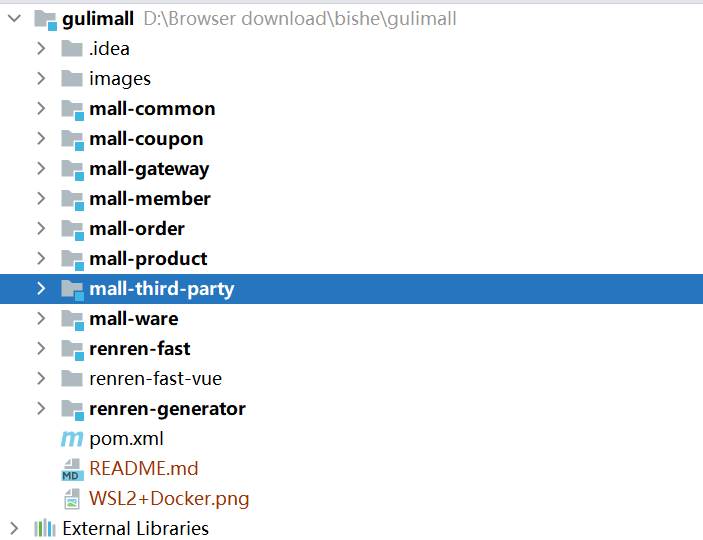
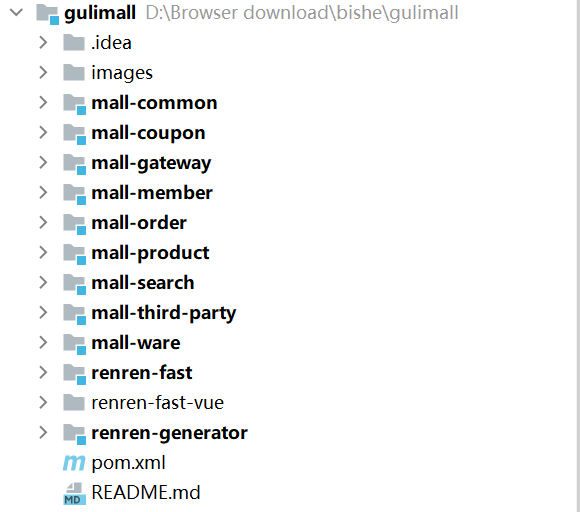
feat:项目介绍

Changed region(s): [[0.0, 0.0, 1.0, 1.0]]

diff --git a/README.md b/README.md
@@ -2,18 +2,23 @@
 
   由于Centos7大部分停止维护下架问题，本次我才用WSL2+Ubuntu20.04.6LTS，同理在Ubuntu下安装Docker管理mysql5.7和redis。
 
+<h2>商城架构图：</h2>
+
+![项目架构图](./images/项目架构图.png)
+
 <h2>环境信息:</h2>
 
 ![WSL2+Ubuntu](./images/WSL2+Ubuntu.png)
 
 <h4>本地可视化连接mysql和redis时输入的主机IP地址信息  192.168.2.44</h4>
 
-| 软件名 | 版本号 | 描述信息           |
-| ------ | ------ | ------------------ |
-| nacos  | 1.1.3  | 微服务的注册和发现 |
-| mysql  | 5.7    | 数据库             |
-| redis  | ^      | 缓存               |
-|        |        |                    |
+| 软件名        | 版本号 | 描述信息                        |
+| ------------- | ------ | ------------------------------- |
+| nacos         | 1.1.3  | 微服务的注册和发现              |
+| mysql         | 5.7    | 数据库                          |
+| redis         | ^      | 缓存                            |
+| Kibana        | 7.4.2  | Elasticsearch操作可视化界面工具 |
+| Elasticsearch | 7.4.2  | 检索服务                        |
 
 <h2>模块介绍：</h2>
 
@@ -32,3 +37,4 @@
 | renren-fast      | 人人后端       | 人人开源后端开发                         |
 | renren-fast-vue  | 人人后端页面   | 人人开源前端开发                         |
 | renren-generator | 人人代码生成   | 人人开源代码生成器                       |
+| mall-search      | 搜索服务       | Elasticsearch 操作服务                   |
